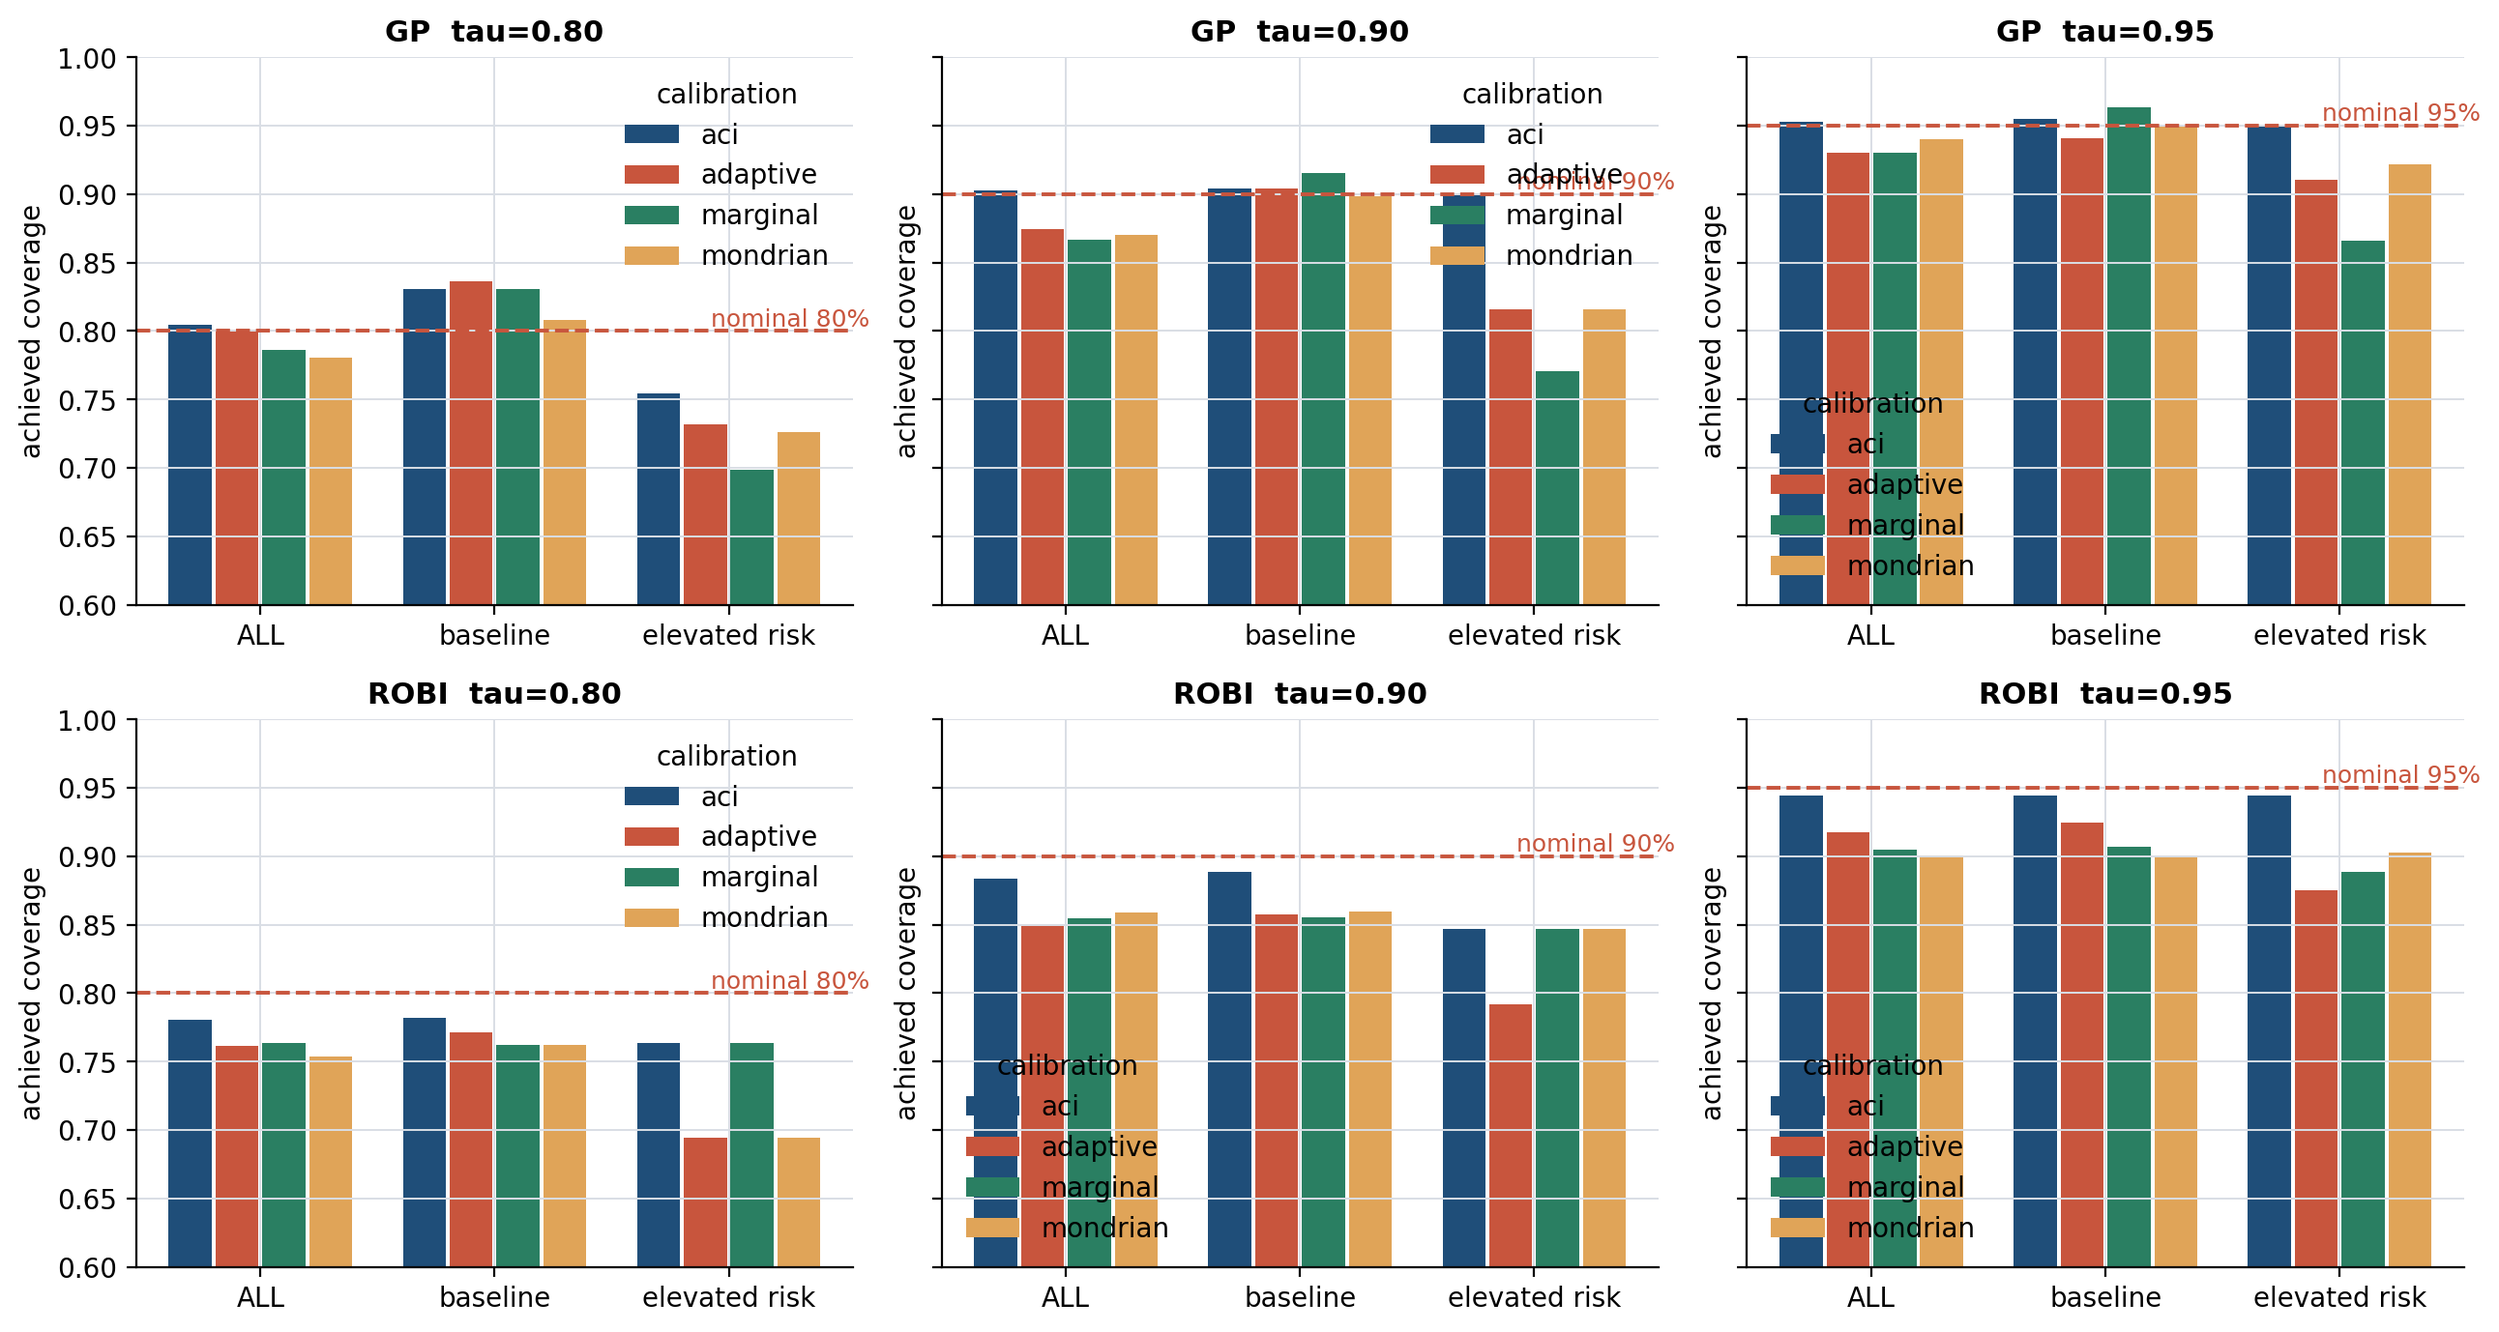
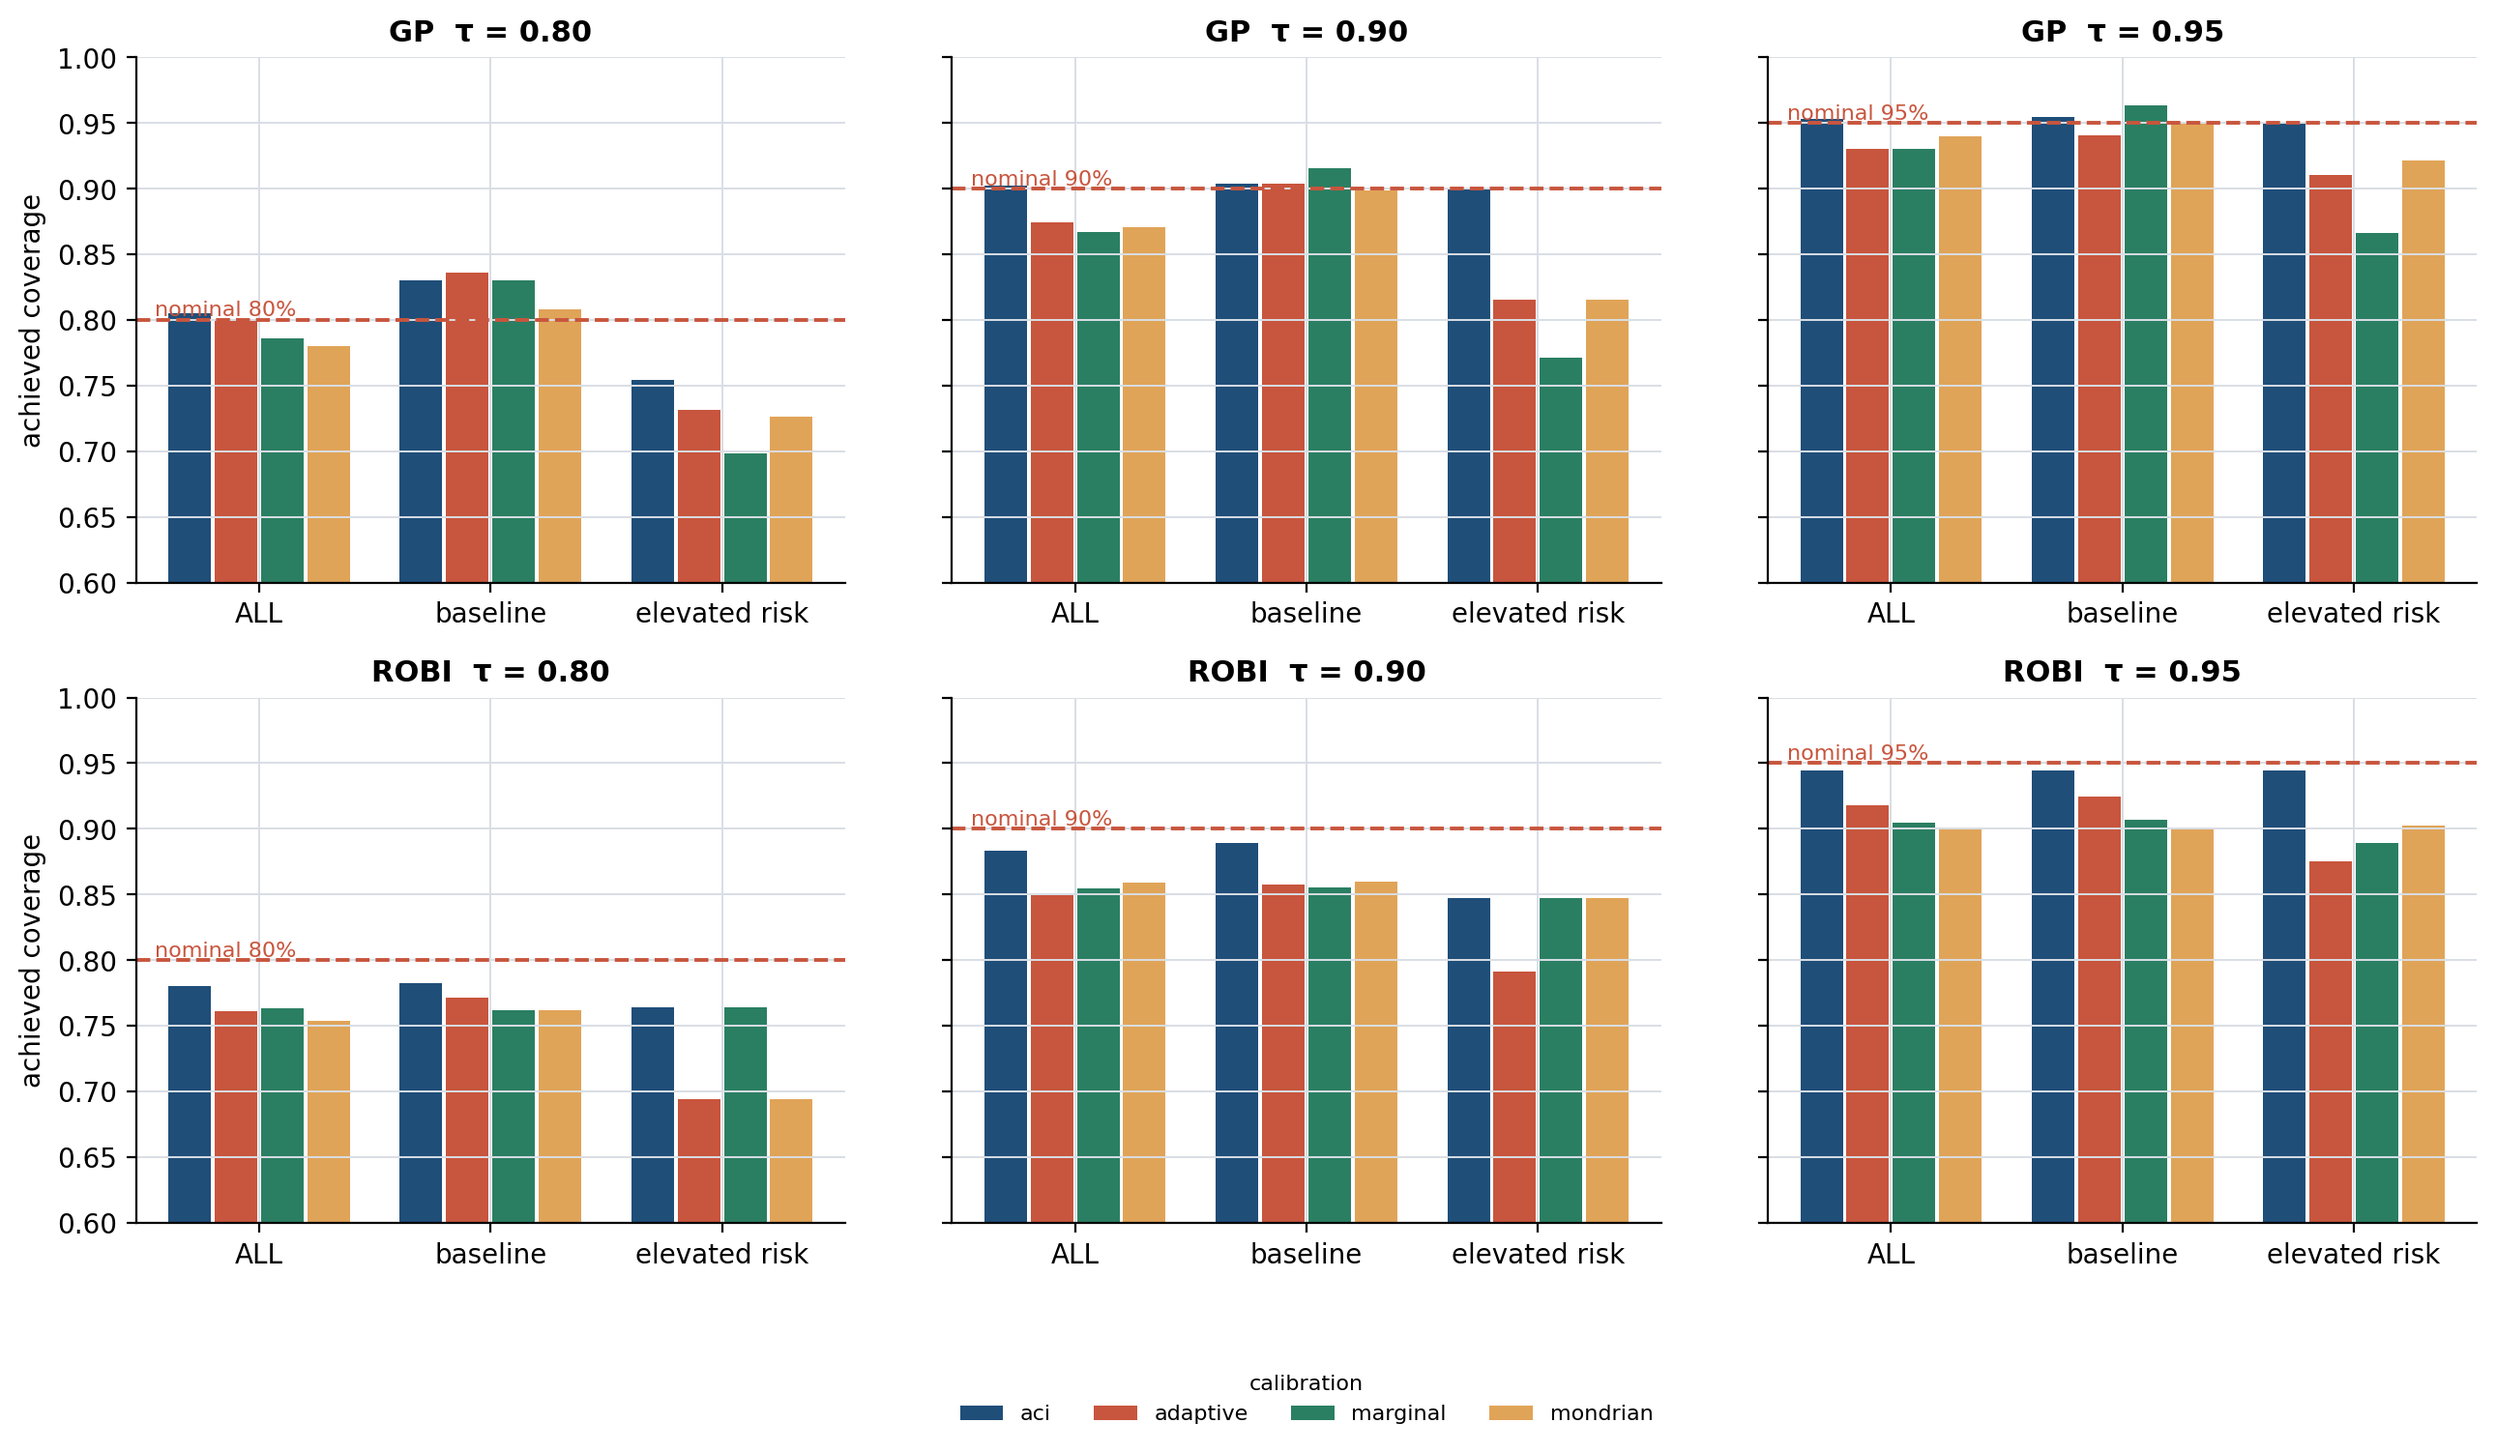
Fix the coverage figure: one legend, one y-range
Six panels each drew their own legend on top of the bars, the nominal-level
label collided with it, and per-panel autoscaling meant the bars were not
comparable across panels despite sharey=True. plot_coverage_by_group now takes
legend and ylim so a grid can set both once.

diff --git a/src/bwalloc/plots.py b/src/bwalloc/plots.py
@@ -127,11 +127,22 @@ def plot_pareto(pareto: pd.DataFrame, ax=None, target_violation: float | None = 
     return ax
 
 
-def plot_coverage_by_group(per_fold: pd.DataFrame, tau: float, ax=None):
+def plot_coverage_by_group(per_fold: pd.DataFrame, tau: float, ax=None,
+                           legend: bool = True, ylim: tuple[float, float] | None = None):
     """Achieved coverage per context group and method, against the nominal level.
 
     The context-conditional result: a marginally calibrated allocator meets its target
     overall while under-delivering inside the high-variance group.
+
+    Parameters
+    ----------
+    legend:
+        Draw the method legend. Set False on all but one panel of a grid; the legend
+        is large enough to sit on top of the bars otherwise.
+    ylim:
+        Fix the y-range. Pass the same value across a grid of panels -- with per-panel
+        autoscaling the bars are not comparable between panels even when the axes are
+        nominally shared.
     """
     ax = ax or plt.subplots(figsize=(7, 4))[1]
     df = per_fold[(per_fold["tau"] == tau) & (per_fold["error"] == "")].copy()
@@ -150,14 +161,17 @@ def plot_coverage_by_group(per_fold: pd.DataFrame, tau: float, ax=None):
                label=method, color=color)
 
     ax.axhline(tau, color=PALETTE["accent"], ls="--", lw=1.4)
-    ax.text(len(groups) - 0.4, tau, f" nominal {tau:.0%}", color=PALETTE["accent"],
-            fontsize=9, va="bottom", ha="right")
+    # Anchored left, where no bar group starts, so it cannot land under the legend.
+    ax.text(-0.45, tau, f"nominal {tau:.0%} ", color=PALETTE["accent"],
+            fontsize=8, va="bottom", ha="left")
     ax.set_xticks(x)
     ax.set_xticklabels([g.replace("_", " ") for g in groups])
     ax.set_ylabel("achieved coverage")
-    ax.set_ylim(min(0.6, table.min().min() - 0.05), 1.0)
+    ax.set_ylim(*(ylim or (min(0.6, table.min().min() - 0.05), 1.0)))
     ax.set_title(f"Per-context coverage at nominal τ = {tau:g}")
-    ax.legend(title="calibration")
+    if legend:
+        ax.legend(title="calibration", fontsize=8, title_fontsize=8,
+                  loc="lower center", bbox_to_anchor=(0.5, -0.42), ncol=len(methods))
     return ax
 
 

diff --git a/notebooks/_build.py b/notebooks/_build.py
@@ -770,12 +770,18 @@ save(fig, "fig3_pareto.png")
 """),
     md("### Figure 4 — the context-conditional result (GP) and its null (Robi)"),
     code("""
-fig, axes = plt.subplots(2, 3, figsize=(13, 7), sharey=True)
-for row, op in zip(axes, ("gp", "robi")):
+# One legend for the grid, and one y-range: with per-panel autoscaling the bars are
+# not comparable across panels even when the axes are nominally shared.
+fig, axes = plt.subplots(2, 3, figsize=(13, 7.6), sharey=True)
+for r, op in enumerate(("gp", "robi")):
     per_fold = pd.read_csv(RESULTS / f"allocation_{op}_perfold.csv").fillna({"error": ""})
-    for ax, tau in zip(row, (0.80, 0.90, 0.95)):
-        plot_coverage_by_group(per_fold, tau=tau, ax=ax)
+    for c, tau in enumerate((0.80, 0.90, 0.95)):
+        ax = axes[r][c]
+        plot_coverage_by_group(per_fold, tau=tau, ax=ax,
+                               legend=(r == 1 and c == 1), ylim=(0.60, 1.0))
         ax.set_title(f"{op.upper()}  tau = {tau:.2f}")
+        if c:
+            ax.set_ylabel("")
 fig.tight_layout()
 save(fig, "fig4_coverage_by_group.png")
 """),

diff --git a/STATUS.md b/STATUS.md
@@ -348,9 +348,27 @@ Marginal coverage (group = ALL), nominal versus achieved:
 On GP, ACI is essentially exact at all three levels. This closes the plan's Part 5
 coverage check, which had never been enforced on real output.
 
-Note the horizon rows in `coverage_gate.csv` (288 configurations total) still exclude
-ACI — `run_horizon.py` ran before `aci` was wired into `pipeline.py`. Re-run it to
-extend the fix across lead times.
+### And it holds as the forecast degrades
+
+`run_horizon.py` was re-run with `aci` wired in. GP, achieved coverage by lead time:
+
+| τ | 1.4 h | 2.9 h | 5.7 h | 11.5 h | 24.4 h |
+|---|---|---|---|---|---|
+| 0.80, **aci** | **0.803** | **0.803** | **0.806** | **0.817** | **0.798** |
+| 0.80, marginal | 0.784 | 0.767 | 0.727 | 0.754 | 0.775 |
+| 0.90, **aci** | **0.904** | **0.902** | **0.906** | **0.907** | **0.901** |
+| 0.90, marginal | 0.867 | 0.878 | 0.851 | 0.839 | 0.868 |
+| 0.95, **aci** | **0.947** | **0.946** | **0.949** | **0.945** | **0.950** |
+| 0.95, marginal | 0.927 | 0.957 | 0.915 | 0.909 | 0.924 |
+
+**All 15 GP configurations pass the ±2% gate under ACI**, at every lead time from 1.4
+to 24 hours, while static calibration drifts as far as 7 points below nominal (τ=0.80
+at 5.7 h) as the forecast degrades.
+
+For a deployable allocator this is the property that matters: the service level is
+maintained even where the forecast is weakest. Quote it as *"online calibration holds
+its nominal service level at every lead time from 1.4 to 24 hours, while static
+calibration drifts up to 7 points short as the forecast degrades."*
 
 ---
 
